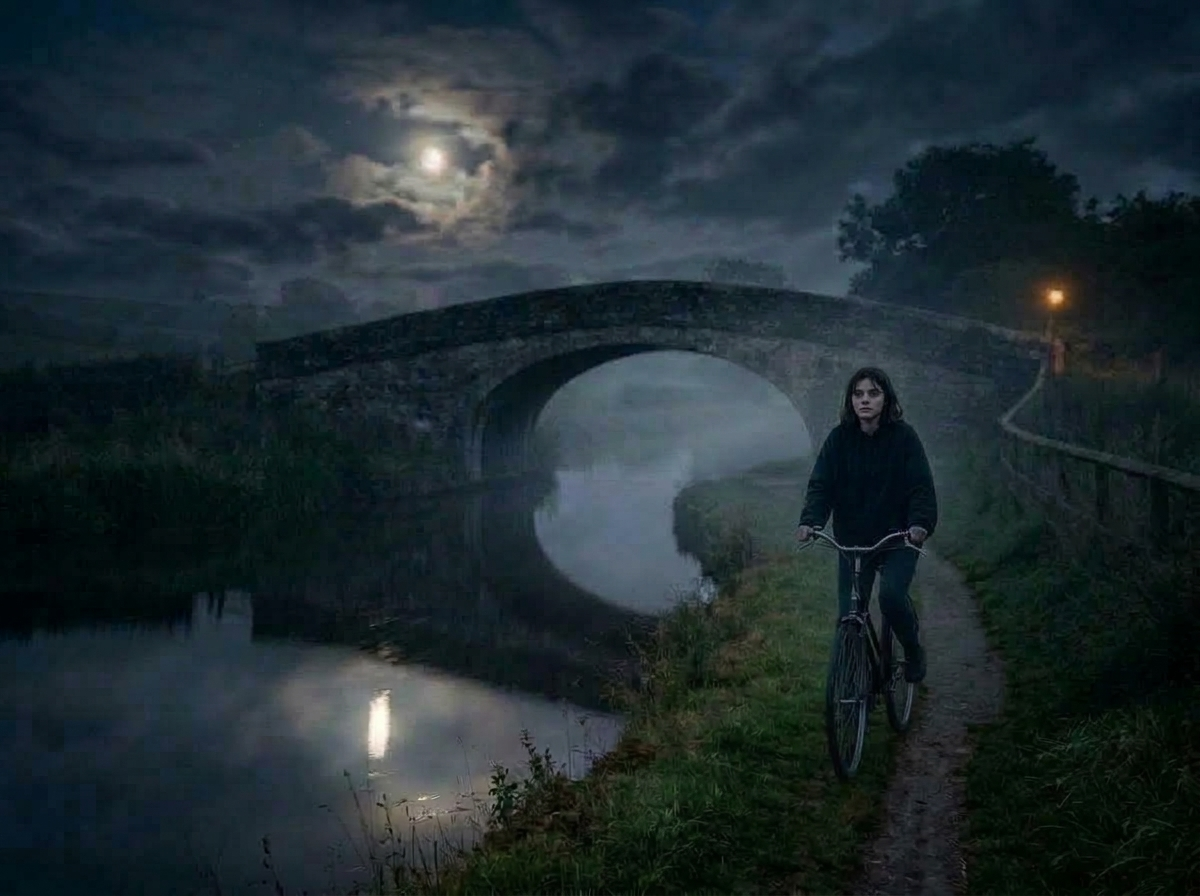
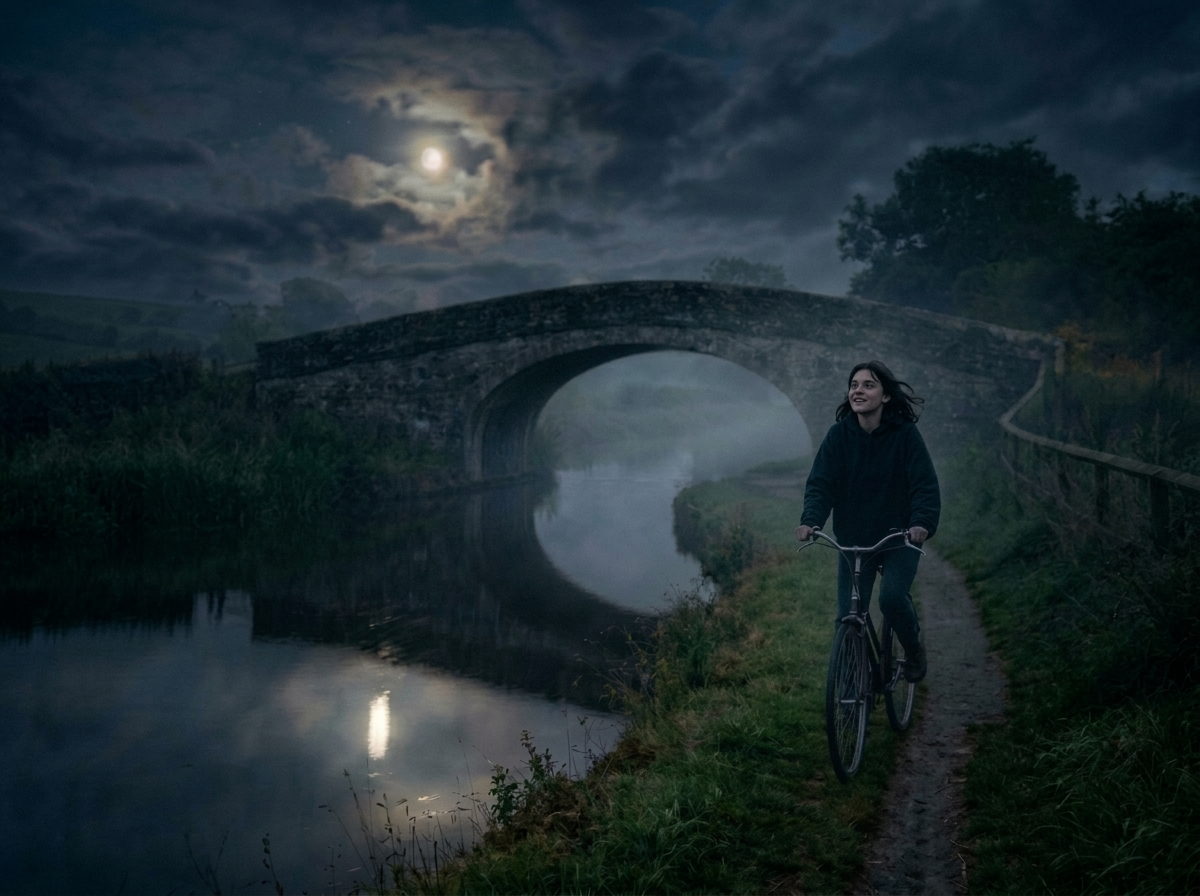
Update World gallery: exhilarated Orla on bicycle as Photo 1 and stone barn with turtledove as Photo 2

Changed region(s): [[0.8325, 0.2812, 0.925, 0.4062], [0.6783, 0.4062, 0.7708, 0.5], [0.7708, 0.5, 0.8017, 0.5625]]

diff --git a/preview_options.html b/preview_options.html
@@ -203,8 +203,8 @@
   </header>
 
   <div class="tabs" id="tabBar">
-    <button class="tab-btn active" data-opt="3">Option 3 (Active, v=5): Midway on Path (Exact Face Match)</button>
-    <button class="tab-btn" data-opt="3c">Option 3-Closer: Medium-Close (Exact Face Match)</button>
+    <button class="tab-btn active" data-opt="3">Option 3 (Selected): Exhilarated on Path</button>
+    <button class="tab-btn" data-opt="3c">Option 3-Closer: Medium-Close</button>
     <button class="tab-btn" data-opt="2">Option 2 (v=3): Distant Near Bridge</button>
     <button class="tab-btn" data-opt="1">Option 1 (v=2): Close-Up Foreground</button>
   </div>
@@ -214,20 +214,20 @@
       <img id="mainImage" src="images/orla_bike_opt3_mid.jpg" alt="Option 3">
     </div>
     <div class="info-card">
-      <h3 id="infoTitle">Option 3 (Active in Lookbook, v=5): Mid-Distance on Towpath</h3>
-      <p id="infoDesc">Orla is riding directly on the dirt towpath midway between the camera and the bridge. Facial likeness and hairstyle exactly match orla_new.png (center part, wispy fringe showing forehead, mournful dark eyes). Stealthy night ride with no lights or lamps.</p>
+      <h3 id="infoTitle">Option 3 (Selected in Lookbook): Exhilarated on Towpath</h3>
+      <p id="infoDesc">Orla is riding directly on the dirt towpath midway between the camera and the bridge. Excited and exhilarated expression, thinking about her secret escape plan working. Exact facial likeness from orla_new.png.</p>
     </div>
   </div>
 
   <div class="grid-view" id="gridView">
     <div class="grid-card">
       <img src="images/orla_bike_opt3_mid.jpg" alt="Option 3">
-      <h4>Option 3 (Active, v=5) &mdash; Midway on Path (Exact Face Match)</h4>
-      <p>Positioned halfway between foreground and bridge. Tires centered on dirt path. Exact facial features and center-parted curtain fringe from orla_new.png.</p>
+      <h4>Option 3 (Selected in Lookbook) &mdash; Exhilarated on Towpath</h4>
+      <p>Positioned halfway between foreground and bridge. Tires centered on dirt path. Excited, exhilarated expression with subtle smile, thinking of her plan working. Exact facial likeness from orla_new.png.</p>
     </div>
     <div class="grid-card">
       <img src="images/orla_bike_opt3_closer.jpg" alt="Option 3-Closer">
-      <h4>Option 3-Closer &mdash; Medium-Close (Exact Face Match)</h4>
+      <h4>Option 3-Closer &mdash; Medium-Close</h4>
       <p>Brought slightly forward along the path for even greater facial clarity while keeping full bicycle and open scenery.</p>
     </div>
     <div class="grid-card">
@@ -246,8 +246,8 @@
     const data = {
       '3': {
         src: 'images/orla_bike_opt3_mid.jpg',
-        title: 'Option 3 (Active in Lookbook, v=5): Mid-Distance on Towpath (Exact Face Match)',
-        desc: 'Orla is riding directly on the dirt towpath midway between the camera and the bridge. Facial likeness and hairstyle exactly match orla_new.png (center part, wispy fringe showing forehead, mournful dark eyes). Stealthy night ride with no lights or lamps.'
+        title: 'Option 3 (Selected in Lookbook): Exhilarated on Towpath',
+        desc: 'Orla is riding directly on the dirt towpath midway between the camera and the bridge. Excited and exhilarated expression, thinking about her secret escape plan working. Exact facial likeness from orla_new.png.'
       },
       '3c': {
         src: 'images/orla_bike_opt3_closer.jpg',

diff --git a/index.html b/index.html
@@ -211,12 +211,13 @@
     <div class="world-gallery-full">
       <!-- Photo 1: Orla on her Bicycle at the Canal Bridge -->
       <div class="world-item">
-        <img src="images/orla_bike_opt3_mid.jpg?v=5" alt="Orla on her Bicycle at the Canal Bridge" class="world-img">
+        <img src="images/orla_bike_night_bridge.jpg?v=6"
+          alt="Orla on her Bicycle on the Lancaster Canal Towpath at Night" class="world-img">
       </div>
 
-      <!-- Photo 2: Lancaster Canal Towpath (Cinematic Night) -->
+      <!-- Photo 2: The Stone Barn with Turtledove and Sunbeam -->
       <div class="world-item">
-        <img src="images/canal_towpath_night.jpg" alt="Lancaster Canal and Towpath at Night" class="world-img">
+        <img src="images/stone_barn_turtledove.jpg?v=1" alt="Stone Barn with Turtledove and Sunbeam" class="world-img">
       </div>
 
       <!-- Photo 3: The Stranger's Underwater Escape -->
@@ -792,7 +793,7 @@
         <p>Email: <a href="mailto:info@wellproducedfilms.com" target="_blank">info@wellproducedfilms.com</a></p>
         <p class="copyright-text">Copyright &copy; 2025 Well Produced Films, LLC - All Rights Reserved.</p>
         <!-- NOTE FOR FUTURE AGENTS: Because this page is static, ALWAYS update the last-updated timestamp below to the current UTC datetime when saving changes to index.html -->
-        <p class="last-updated-text">Last updated: 2026-09-25 21:47:46 UTC</p>
+        <p class="last-updated-text">Last updated: 2026-09-28 21:54:00 UTC</p>
       </div>
     </div>
   </footer>
